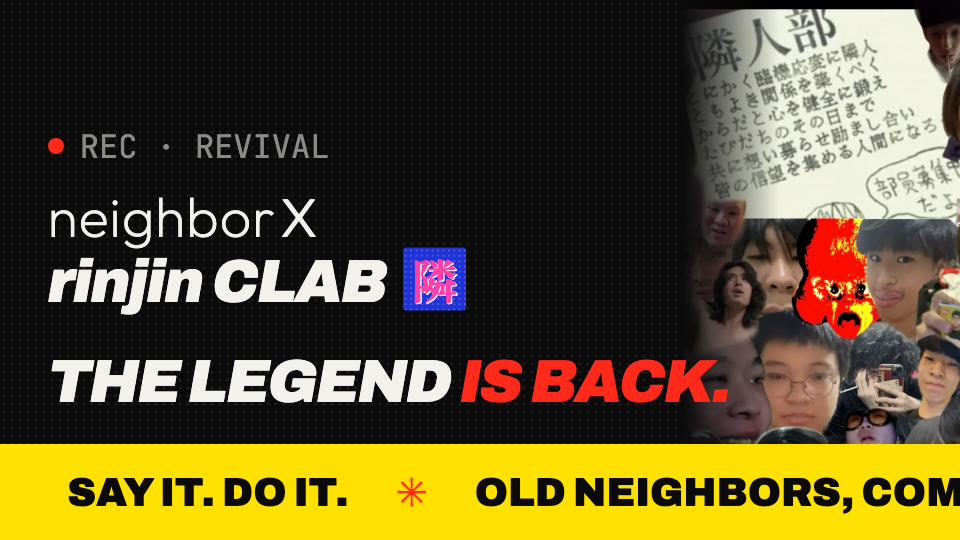
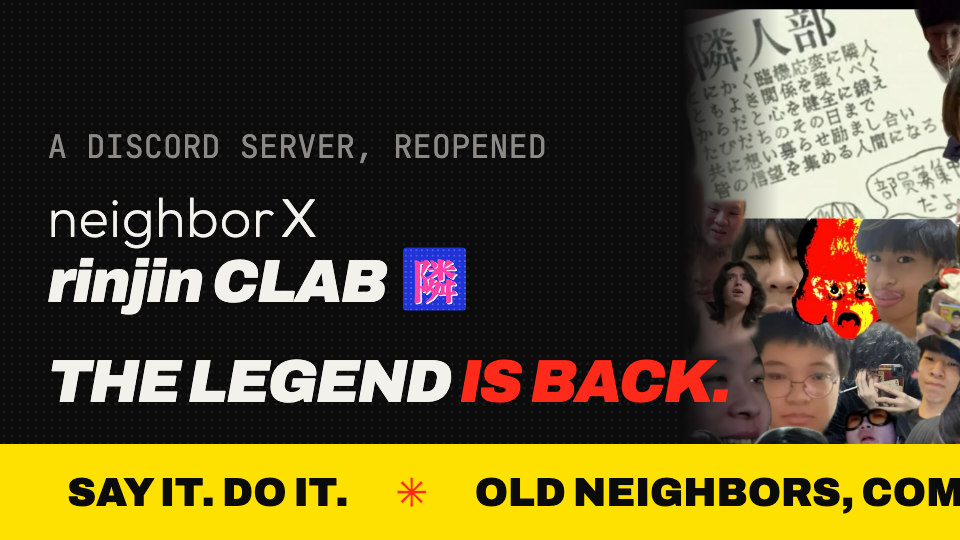
Drop REC from Discord art

Changed region(s): [[0.0312, 0.237, 0.375, 0.2963], [0.4062, 0.237, 0.5938, 0.2963]]

diff --git a/discord/render.html b/discord/render.html
@@ -48,7 +48,7 @@ const t = new URLSearchParams(location.search).get("t") || "icon";
 const lockup = `<span class="lockup"><span><span class="lk-thin">neighbor</span><span class="lk-x">X</span></span><span class="lk-keep"><span class="lk-bold">rinjin CLAB</span><span class="lk-badge"><b>隣</b></span></span></span>`;
 const bar = `<div class="bar"><span>SAY IT. DO IT.</span><b>✳</b><span>OLD NEIGHBORS, COME HOME</span><b>✳</b><span>NEW BLOOD, PULL UP</span></div>`;
 const wide = (cls) => `<div class="art wide ${cls}"><div class="dots" style="opacity:.35"></div>
-  <div class="copy"><div class="eyebrow mono"><i></i>REC · REVIVAL</div>${lockup}<div class="sub">THE LEGEND <span>IS BACK.</span></div></div>
+  <div class="copy"><div class="eyebrow mono">A DISCORD SERVER, REOPENED</div>${lockup}<div class="sub">THE LEGEND <span>IS BACK.</span></div></div>
   <div class="photo"></div>${bar}</div>`;
 const T = {
   icon:   `<div class="art icon"><div class="pink"></div><b>隣</b></div>`,
